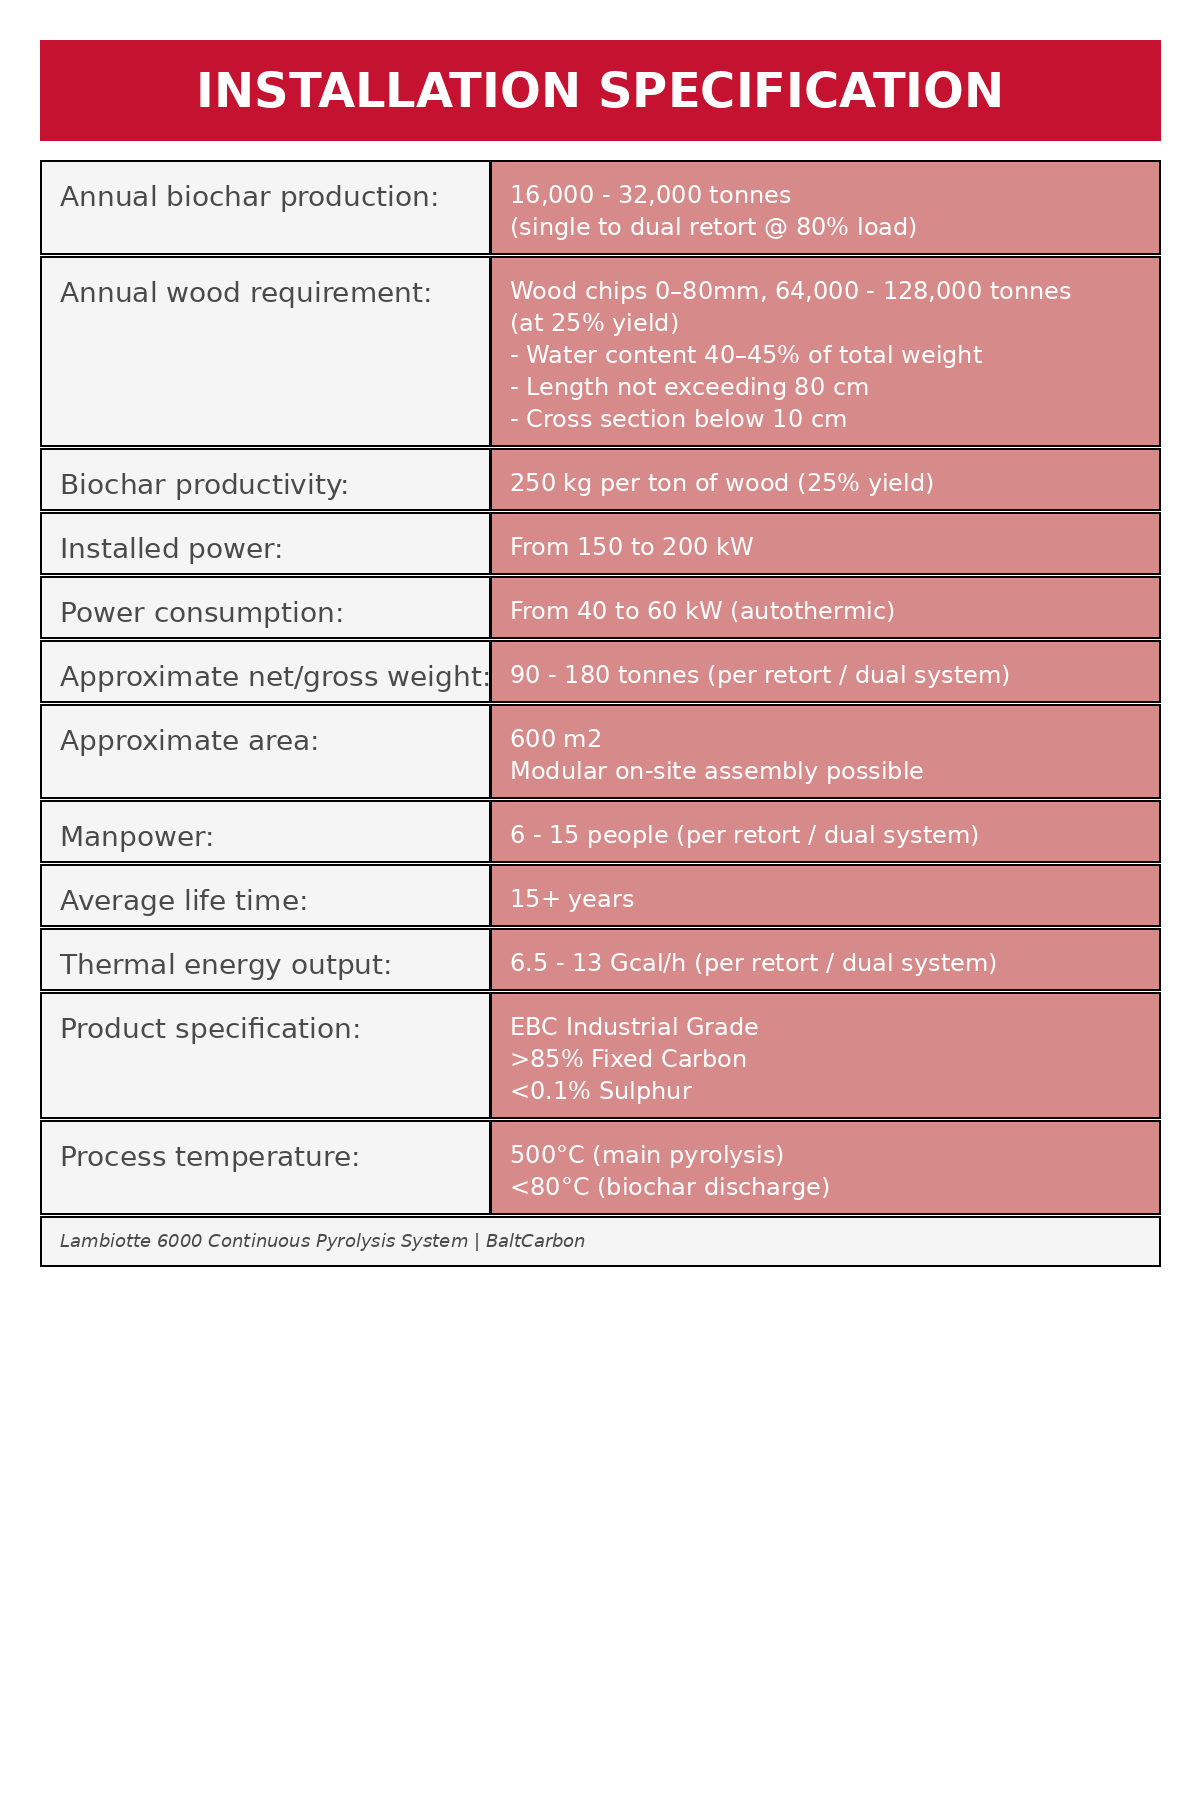
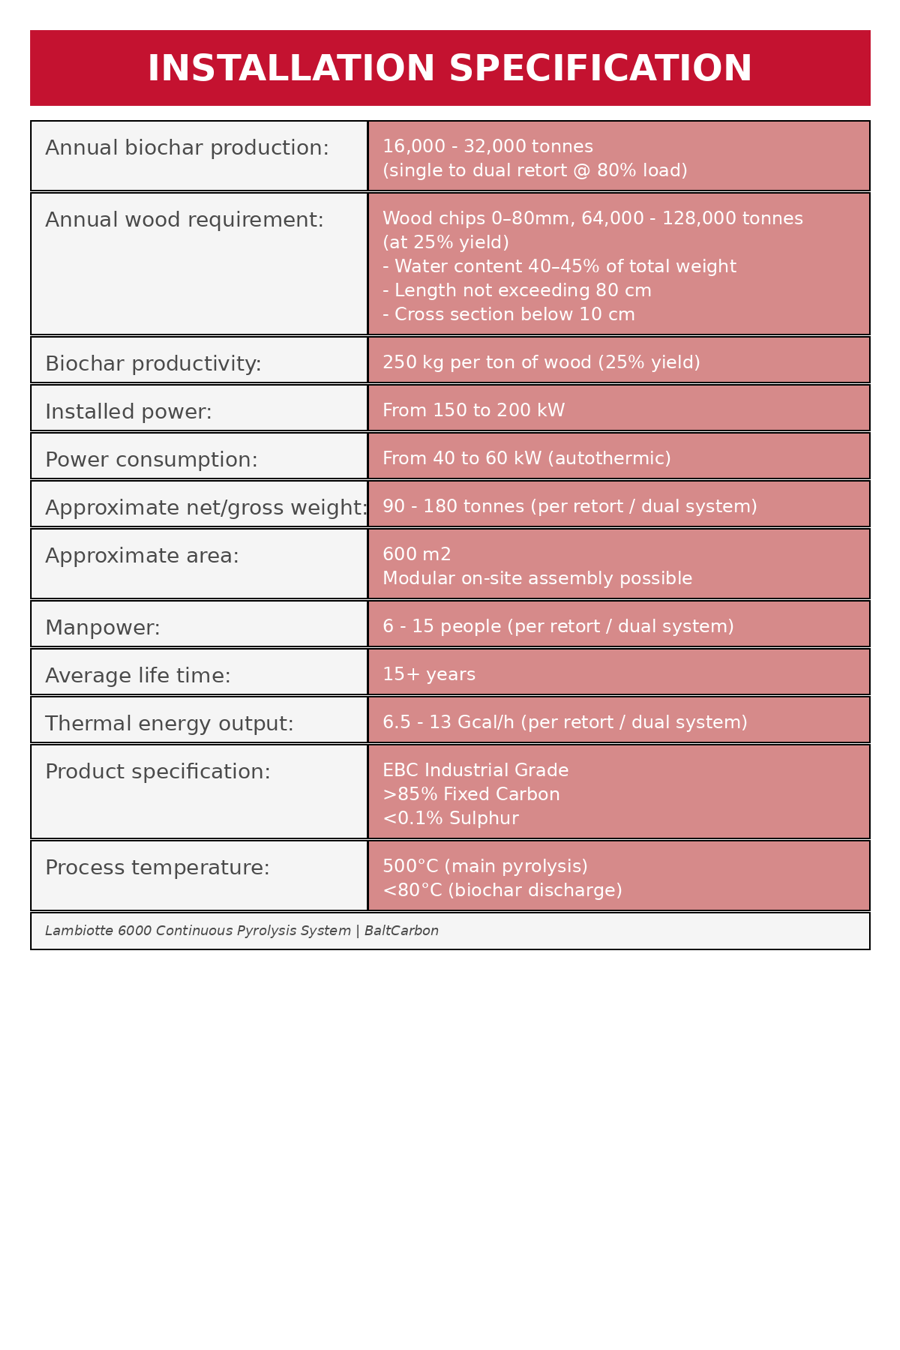
Enhance website structure and add privacy policy
- Updated script tags in biochar.html, index.html, and industrial-applications.html to include 'defer' attribute for improved loading performance.
- Adjusted image attributes for better responsiveness and accessibility across multiple HTML files.
- Added a new privacy.html page detailing data collection and usage practices in compliance with GDPR.
- Updated footer navigation to include a link to the new privacy policy.
- Modified sitemap.xml to reflect the latest changes and added last modified dates for relevant pages.

diff --git a/privacy.html b/privacy.html
@@ -1,0 +1,119 @@
+<!DOCTYPE html>
+<html lang="en">
+<head>
+  <meta charset="UTF-8">
+  <meta name="viewport" content="width=device-width, initial-scale=1.0">
+  <title>Privacy Policy — Balt Carbon</title>
+  <meta name="description" content="How Balt Carbon collects, uses, and protects personal data submitted through baltcarbon.com, in compliance with the EU General Data Protection Regulation (GDPR).">
+  <meta name="robots" content="noindex, follow">
+  <link rel="canonical" href="https://baltcarbon.com/privacy.html">
+  <link rel="icon" href="/favicon.ico" sizes="32x32" type="image/x-icon">
+  <link rel="icon" href="/images/favicon-32.png" sizes="32x32" type="image/png">
+  <link rel="apple-touch-icon" href="/images/icon_png.png">
+  <link rel="stylesheet" href="/css/style.css">
+  <script src="/js/vercel-analytics.js" defer></script>
+</head>
+<body>
+
+  <!-- ============ NAVIGATION ============ -->
+  <header>
+    <nav class="navbar">
+      <a href="/" class="navbar__logo">
+        <img src="/images/tild3231-3538-4936-b638-636465326431__noroot.png" alt="Balt Carbon" width="499" height="78" decoding="async">
+      </a>
+
+      <button class="navbar__toggle" aria-label="Toggle navigation" aria-expanded="false">
+        <span></span>
+        <span></span>
+        <span></span>
+      </button>
+
+      <ul class="navbar__links">
+        <li><a href="/">Home</a></li>
+        <li><a href="/#technology">Technology</a></li>
+        <li><a href="/industrial-applications.html">Industrial Applications</a></li>
+        <li><a href="/biochar.html">Biochar</a></li>
+        <li><a href="/#projects">Projects</a></li>
+        <li><a href="/#contact">Contact</a></li>
+      </ul>
+    </nav>
+  </header>
+
+  <!-- ============ PRIVACY POLICY ============ -->
+  <section class="section section--white" style="margin-top: var(--nav-height);">
+    <div class="container container--narrow">
+      <h1 class="section-title">Privacy Policy</h1>
+      <p class="section-desc">Last updated: 5 July 2026</p>
+
+      <div class="prose">
+        <p>This Privacy Policy explains how Balt Carbon Ltd ("Balt Carbon", "we", "us") collects, uses, and protects personal data when you visit <strong>baltcarbon.com</strong> or contact us through this website. We are committed to processing personal data in accordance with the EU General Data Protection Regulation (GDPR) and applicable Latvian law.</p>
+
+        <h4>1. Who We Are (Data Controller)</h4>
+        <p>Balt Carbon Ltd, Dzirnavu st. 5, LV-1010, Riga, Latvia. For any privacy-related questions or requests, contact us at <a href="mailto:ando@baltcarbon.com">ando@baltcarbon.com</a>.</p>
+
+        <h4>2. What Data We Collect</h4>
+        <ul>
+          <li><strong>Contact form submissions</strong> — when you use our contact form, we collect the email address, name or company name, reason for contact, and any message content you provide.</li>
+          <li><strong>Usage data</strong> — we use privacy-friendly analytics (Vercel Web Analytics) that collect aggregated, anonymised information about page visits. This analytics does not use cookies and does not track individuals across sites.</li>
+        </ul>
+
+        <h4>3. How We Use Your Data</h4>
+        <ul>
+          <li>To respond to your enquiry and communicate with you about our products and services.</li>
+          <li>To understand, in aggregate, how visitors use our website so we can improve it.</li>
+          <li>To comply with legal obligations where applicable.</li>
+        </ul>
+
+        <h4>4. Legal Basis for Processing</h4>
+        <p>We process contact form data on the basis of your consent and our legitimate interest in responding to business enquiries (GDPR Article 6(1)(a) and (f)). Aggregated analytics is processed on the basis of our legitimate interest in maintaining and improving the website.</p>
+
+        <h4>5. Sharing and Processors</h4>
+        <p>We do not sell your personal data. We share data only with service providers that help us operate this website:</p>
+        <ul>
+          <li><strong>FormSubmit</strong> — relays contact form submissions to our email inbox.</li>
+          <li><strong>Vercel</strong> — hosts the website and provides anonymised analytics.</li>
+        </ul>
+        <p>These providers process data on our behalf under their respective terms and data-processing safeguards.</p>
+
+        <h4>6. Data Retention</h4>
+        <p>We retain contact enquiries only as long as necessary to handle your request and maintain our business relationship, after which they are deleted or anonymised.</p>
+
+        <h4>7. Your Rights</h4>
+        <p>Under the GDPR you have the right to access, rectify, erase, restrict, or object to the processing of your personal data, and the right to data portability. You may also lodge a complaint with the Latvian Data State Inspectorate (Datu valsts inspekcija). To exercise any of these rights, contact us at <a href="mailto:ando@baltcarbon.com">ando@baltcarbon.com</a>.</p>
+
+        <h4>8. Cookies</h4>
+        <p>This website does not use tracking or advertising cookies. Our analytics operates without cookies.</p>
+
+        <h4>9. Changes to This Policy</h4>
+        <p>We may update this Privacy Policy from time to time. The "Last updated" date above reflects the most recent revision.</p>
+      </div>
+    </div>
+  </section>
+
+  <!-- ============ FOOTER ============ -->
+  <footer class="footer">
+    <div class="footer__inner">
+      <p class="footer__copy">
+        &copy; 2026 Balt Carbon Ltd<br>
+        Dzirnavu st. 5, LV-1010, Riga, Latvia
+      </p>
+      <nav class="footer__links">
+        <a href="/">Home</a>
+        <a href="/#technology">Technology</a>
+        <a href="/industrial-applications.html">Industrial Applications</a>
+        <a href="/biochar.html">Biochar</a>
+        <a href="/#projects">Projects</a>
+        <a href="/privacy.html">Privacy</a>
+      </nav>
+      <a href="#" class="footer__scroll-top">
+        Back to top
+        <svg width="10" height="14" viewBox="0 0 6 20" fill="currentColor">
+          <path d="M5.78 3.85L3.12.28c-.14-.14-.3-.14-.43 0L.03 3.85c-.14.13-.08.27.13.27h1.72V20h2.06V4.12h1.72c.15 0 .22-.07.19-.17a.26.26 0 00-.07-.1z" fill-rule="evenodd"/>
+        </svg>
+      </a>
+    </div>
+  </footer>
+
+  <script src="/js/main.js"></script>
+</body>
+</html>

diff --git a/index.html b/index.html
@@ -22,7 +22,7 @@
   <link rel="icon" href="/images/favicon-32.png" sizes="32x32" type="image/png">
   <link rel="apple-touch-icon" href="/images/icon_png.png">
   <link rel="stylesheet" href="/css/style.css">
-  <script src="/js/vercel-analytics.js"></script>
+  <script src="/js/vercel-analytics.js" defer></script>
   <script type="application/ld+json">
   {
     "@context": "https://schema.org",
@@ -155,7 +155,7 @@
   <header>
     <nav class="navbar">
       <a href="/" class="navbar__logo">
-        <img src="/images/tild3231-3538-4936-b638-636465326431__noroot.png" alt="Balt Carbon" width="180">
+        <img src="/images/tild3231-3538-4936-b638-636465326431__noroot.png" alt="Balt Carbon" width="499" height="78" decoding="async">
       </a>
 
       <button class="navbar__toggle" aria-label="Toggle navigation" aria-expanded="false">
@@ -255,7 +255,7 @@
           <p>Consistent biochar output, quality after quality. Thermal energy (13 Gcal/h) available for your facility's preheating, drying, or steam generation.</p>
         </div>
         <div class="tech-image">
-          <img src="/images/tild3133-3664-4262-b135-356365393830__installation_specifi.png" alt="Installation specifications diagram">
+          <img src="/images/tild3133-3664-4262-b135-356365393830__installation_specifi.png" alt="Installation specifications diagram" width="900" height="1350" loading="lazy" decoding="async">
         </div>
       </div>
     </div>
@@ -332,7 +332,7 @@
         </div>
 
         <div class="project-card">
-          <div class="project-card__image" style="background-image: url('/images/tild6333-3738-4364-b762-356534353361__screenshot_2025-04-1.png')"></div>
+          <div class="project-card__image" style="background-image: url('/images/tild6333-3738-4364-b762-356534353361__screenshot_2025-04-1.jpg')"></div>
           <div class="project-card__body">
             <span class="project-card__year">2018</span>
             <h3 class="project-card__title">Nurmes, FI</h3>
@@ -350,7 +350,7 @@
         </div>
 
         <div class="project-card">
-          <div class="project-card__image" style="background-image: url('/images/tild3866-3363-4236-b432-396630666363__screenshot_2026-04-1.png')"></div>
+          <div class="project-card__image" style="background-image: url('/images/tild3866-3363-4236-b432-396630666363__screenshot_2026-04-1.jpg')"></div>
           <div class="project-card__body">
             <span class="project-card__year">2026 — In progress</span>
             <h3 class="project-card__title">Taaveti, FI</h3>
@@ -513,7 +513,8 @@
         <form class="contact-form" action="https://formsubmit.co/ando@baltcarbon.com" method="POST">
           <input type="hidden" name="_subject" value="New contact from baltcarbon.com">
           <input type="hidden" name="_captcha" value="false">
-          <input type="hidden" name="_next" value="http://baltcarbon.com/">
+          <input type="hidden" name="_next" value="https://baltcarbon.com/thank-you.html">
+          <input type="text" name="_honey" style="display:none" tabindex="-1" autocomplete="off" aria-hidden="true">
 
           <div class="form-group">
             <label for="email">Contact email</label>
@@ -542,7 +543,7 @@
           </div>
 
           <button type="submit" class="btn btn--primary">Send</button>
-          <p class="form-note">By clicking the button you agree to our Privacy Policy.</p>
+          <p class="form-note">By clicking the button you agree to our <a href="/privacy.html">Privacy Policy</a>.</p>
         </form>
 
       </div>
@@ -563,6 +564,7 @@
         <a href="/biochar.html">Biochar</a>
         <a href="#projects">Projects</a>
         <a href="#contact">Contact</a>
+        <a href="/privacy.html">Privacy</a>
       </nav>
       <a href="#" class="footer__scroll-top">
         Back to top

diff --git a/thank-you.html b/thank-you.html
@@ -1,0 +1,77 @@
+<!DOCTYPE html>
+<html lang="en">
+<head>
+  <meta charset="UTF-8">
+  <meta name="viewport" content="width=device-width, initial-scale=1.0">
+  <title>Thank You — Balt Carbon</title>
+  <meta name="description" content="Thank you for contacting Balt Carbon. We have received your message and will respond shortly.">
+  <meta name="robots" content="noindex, follow">
+  <link rel="canonical" href="https://baltcarbon.com/thank-you.html">
+  <link rel="icon" href="/favicon.ico" sizes="32x32" type="image/x-icon">
+  <link rel="icon" href="/images/favicon-32.png" sizes="32x32" type="image/png">
+  <link rel="apple-touch-icon" href="/images/icon_png.png">
+  <link rel="stylesheet" href="/css/style.css">
+  <script src="/js/vercel-analytics.js" defer></script>
+</head>
+<body>
+
+  <!-- ============ NAVIGATION ============ -->
+  <header>
+    <nav class="navbar">
+      <a href="/" class="navbar__logo">
+        <img src="/images/tild3231-3538-4936-b638-636465326431__noroot.png" alt="Balt Carbon" width="499" height="78" decoding="async">
+      </a>
+
+      <button class="navbar__toggle" aria-label="Toggle navigation" aria-expanded="false">
+        <span></span>
+        <span></span>
+        <span></span>
+      </button>
+
+      <ul class="navbar__links">
+        <li><a href="/">Home</a></li>
+        <li><a href="/#technology">Technology</a></li>
+        <li><a href="/industrial-applications.html">Industrial Applications</a></li>
+        <li><a href="/biochar.html">Biochar</a></li>
+        <li><a href="/#projects">Projects</a></li>
+        <li><a href="/#contact">Contact</a></li>
+      </ul>
+    </nav>
+  </header>
+
+  <!-- ============ THANK YOU ============ -->
+  <section class="section section--white" style="margin-top: var(--nav-height); min-height: calc(100vh - var(--nav-height) - 120px); display: flex; align-items: center;">
+    <div class="container container--narrow" style="text-align: center;">
+      <h1 class="section-title">Thank you — your message is on its way</h1>
+      <p class="section-desc">We've received your enquiry and a member of the Balt Carbon team will get back to you shortly, usually within one business day. In the meantime, feel free to explore our technology and applications.</p>
+      <a href="/" class="btn btn--primary">Back to Home</a>
+    </div>
+  </section>
+
+  <!-- ============ FOOTER ============ -->
+  <footer class="footer">
+    <div class="footer__inner">
+      <p class="footer__copy">
+        &copy; 2026 Balt Carbon Ltd<br>
+        Dzirnavu st. 5, LV-1010, Riga, Latvia
+      </p>
+      <nav class="footer__links">
+        <a href="/">Home</a>
+        <a href="/#technology">Technology</a>
+        <a href="/industrial-applications.html">Industrial Applications</a>
+        <a href="/biochar.html">Biochar</a>
+        <a href="/#projects">Projects</a>
+        <a href="/#contact">Contact</a>
+      </nav>
+      <a href="#" class="footer__scroll-top">
+        Back to top
+        <svg width="10" height="14" viewBox="0 0 6 20" fill="currentColor">
+          <path d="M5.78 3.85L3.12.28c-.14-.14-.3-.14-.43 0L.03 3.85c-.14.13-.08.27.13.27h1.72V20h2.06V4.12h1.72c.15 0 .22-.07.19-.17a.26.26 0 00-.07-.1z" fill-rule="evenodd"/>
+        </svg>
+      </a>
+    </div>
+  </footer>
+
+  <script src="/js/main.js"></script>
+</body>
+</html>

diff --git a/biochar.html b/biochar.html
@@ -21,7 +21,7 @@
   <link rel="icon" href="/images/favicon-32.png" sizes="32x32" type="image/png">
   <link rel="apple-touch-icon" href="/images/icon_png.png">
   <link rel="stylesheet" href="/css/style.css">
-  <script src="/js/vercel-analytics.js"></script>
+  <script src="/js/vercel-analytics.js" defer></script>
 </head>
 <body>
 
@@ -29,7 +29,7 @@
   <header>
     <nav class="navbar">
       <a href="/" class="navbar__logo">
-        <img src="/images/tild3231-3538-4936-b638-636465326431__noroot.png" alt="Balt Carbon" width="180">
+        <img src="/images/tild3231-3538-4936-b638-636465326431__noroot.png" alt="Balt Carbon" width="499" height="78" decoding="async">
       </a>
 
       <button class="navbar__toggle" aria-label="Toggle navigation" aria-expanded="false">
@@ -189,6 +189,7 @@
         <a href="/biochar.html">Biochar</a>
         <a href="/#projects">Projects</a>
         <a href="/#contact">Contact</a>
+        <a href="/privacy.html">Privacy</a>
       </nav>
       <a href="#" class="footer__scroll-top">
         Back to top

diff --git a/industrial-applications.html b/industrial-applications.html
@@ -21,7 +21,7 @@
   <link rel="icon" href="/images/favicon-32.png" sizes="32x32" type="image/png">
   <link rel="apple-touch-icon" href="/images/icon_png.png">
   <link rel="stylesheet" href="/css/style.css">
-  <script src="/js/vercel-analytics.js"></script>
+  <script src="/js/vercel-analytics.js" defer></script>
 </head>
 <body>
 
@@ -29,7 +29,7 @@
   <header>
     <nav class="navbar">
       <a href="/" class="navbar__logo">
-        <img src="/images/tild3231-3538-4936-b638-636465326431__noroot.png" alt="Balt Carbon" width="180">
+        <img src="/images/tild3231-3538-4936-b638-636465326431__noroot.png" alt="Balt Carbon" width="499" height="78" decoding="async">
       </a>
 
       <button class="navbar__toggle" aria-label="Toggle navigation" aria-expanded="false">
@@ -200,6 +200,7 @@
         <a href="/biochar.html">Biochar</a>
         <a href="/#projects">Projects</a>
         <a href="/#contact">Contact</a>
+        <a href="/privacy.html">Privacy</a>
       </nav>
       <a href="#" class="footer__scroll-top">
         Back to top
